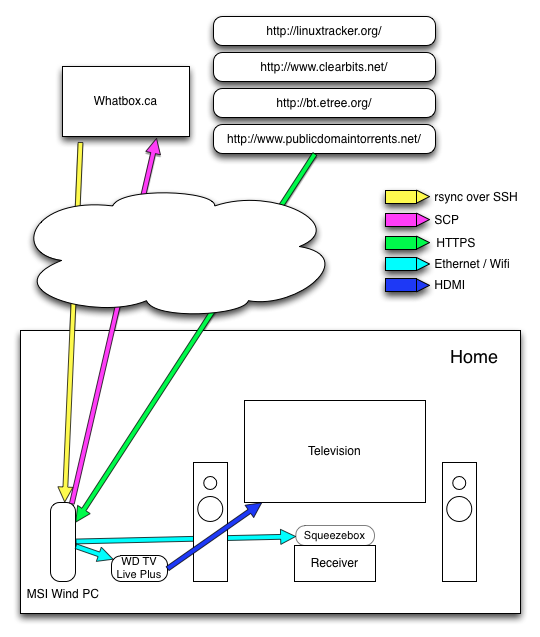
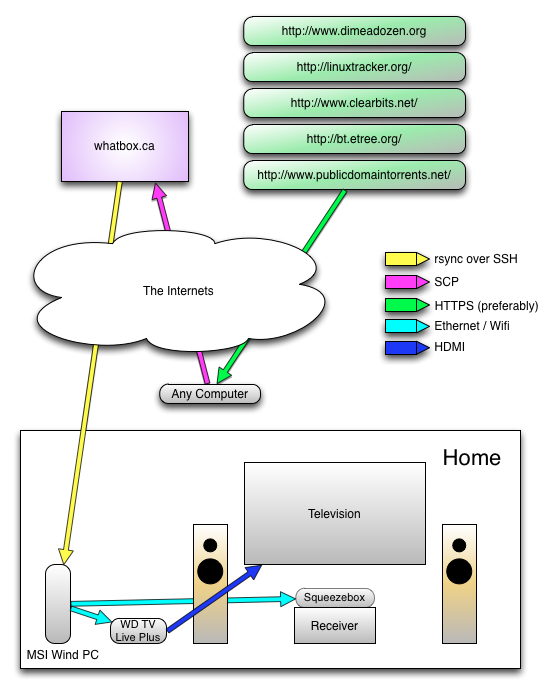
Documentation progress

diff --git a/README.md b/README.md
@@ -7,8 +7,32 @@ The array of options available to setup a home entertainment system driven by me
 
 ![htpc schema](htpc/raw/master/htpc.png "HTPC Schema")
 
-# Header 1 #
+# Linux Server #
+This is the brains of the operation. It serves
 
-# Header 2 #
+## DYNDNS ##
+
+## DLNA ##
+
+## rsync ##
+
+# Seedbox
+
+# Any Computer / Laptop #
+With this setup, you can download torrents from any computer you use and easily
+shoot them out to your seedbox for downloading and auto-sync. 
+
+## Torrent Downloads ##
+There are many torrent trackers available that offer torrents with free and legal media content.
+
+ * http://www.dimeadozen.org/
+ * http://linuxtracker.org
+ * http://www.clearbits.net
+ * http://bt.etree.org
+ * http://www.publicdomaintorrents.net
+
+## scp_tor ##
+
+# Streaming Device(s) #
 
 
